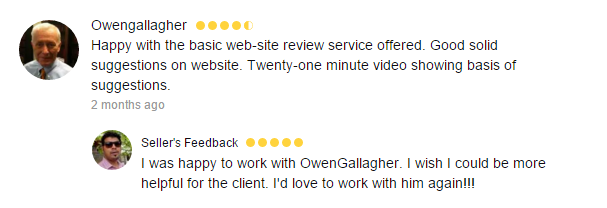
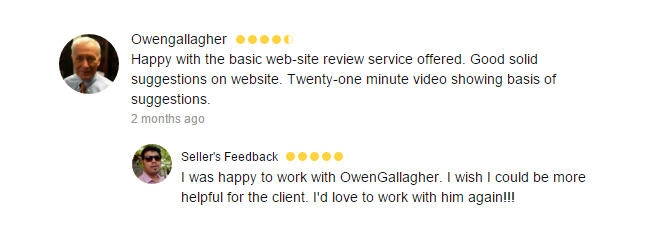
made images eq size

Changed region(s): [[0.0297, 0.0865, 0.86, 0.5481], [0.1483, 0.5769, 0.9193, 0.9231]]

diff --git a/index.html b/index.html
@@ -119,28 +119,41 @@
   <div class="large-6 columns"><p></p>
     <h2 class="text-center">Customer Reviews</h2>
     <ul class="example-orbit" data-orbit>
-        <img src="images/reviews/abhansaliNsaquita.png" alt="abhansaliNsaquita.png id="reviews">
-        <img src="images/reviews/AzdanGuil.png" alt="AzdanGuil.png id="reviews">
-        <img src="images/reviews/bestmediabox.png" alt="bestmediabox.png id="reviews">
-        <img src="images/reviews/CourseyNHook.png" alt="CourseyNHook.png id="reviews">
-        <img src="images/reviews/FabioNlevin.png" alt="FabioNlevin.png id="reviews">
-        <img src="images/reviews/forecasterNSaund.png" alt="forecasterNSaund.png id="reviews">
-        <img src="images/reviews/FrankNFinesalesman.png" alt="FrankNFinesalesman.png id="reviews">
-        <img src="images/reviews/gallagher.png" alt="gallagher.png id="reviews">
-        <img src="images/reviews/gunNJudyNRags.png" alt="gunNJudyNRags.png id="reviews">
-        <img src="images/reviews/hook1.png" alt="hook1.png id="reviews">
-        <img src="images/reviews/hook2.png" alt="hook2.png id="reviews">
-        <img src="images/reviews/hook3.png" alt="hook3.png id="reviews">
-        <img src="images/reviews/jasonNDoram.png" alt="jasonNDoram.png id="reviews">
-        <img src="images/reviews/Jazz.png" alt="Jazz.png id="reviews">
-        <img src="images/reviews/Leah.png" alt="Leah.png id="reviews">
-        <img src="images/reviews/loecav.png" alt="loecav.png id="reviews">
-        <img src="images/reviews/mikeNlawbusinessman.png" alt="mikeNlawbusinessman.png id="reviews">
-        <img src="images/reviews/paleos.png" alt="paleos.png id="reviews">
-        <img src="images/reviews/reyesNJvids.png" alt="reyesNJvids.png id="reviews">
-        <img src="images/reviews/Sugar.png" alt="Sugar.png id="reviews">
-        <img src="images/reviews/sunita.png" alt="sunita.png id="reviews">
-        <img src="images/reviews/webpropertiesNvova.png" alt="webpropertiesNvova.png id="reviews">
+        <img src="images/reviews/abhansali.png" alt="abhansali" width="650" height="250">
+        <img src="images/reviews/adzdacom.png" alt="adzdacom" width="650" height="250">
+        <img src="images/reviews/aforecaster.png" alt="aforecaster" width="650" height="250">
+        <img src="images/reviews/bestmediabox.png" alt="bestmediabox" width="650" height="250">
+        <img src="images/reviews/doram.png" alt="doram" width="650" height="250">
+        <img src="images/reviews/fabioramos.png" alt="fabioramos" width="650" height="250">
+        <img src="images/reviews/fnsalesman.png" alt="fnsalesman" width="650" height="250">
+        <img src="images/reviews/frankrebel.png" alt="frankrebel" width="650" height="250">
+        <img src="images/reviews/gallagher.png" alt="gallagher" width="650" height="250">
+        <img src="images/reviews/guilhermenunes.png" alt="guilhermenunes" width="650" height="250">
+        <img src="images/reviews/gun.png" alt="gun" width="650" height="250">
+        <img src="images/reviews/hook2.png" alt="hook2" width="650" height="250">
+        <img src="images/reviews/hookway3.png" alt="hookway3" width="650" height="250">
+        <img src="images/reviews/hookway4.png" alt="hookway4" width="650" height="250">
+        <img src="images/reviews/jason.png" alt="jason" width="650" height="250">
+        <img src="images/reviews/jayrey.png" alt="jayrey" width="650" height="250">
+        <img src="images/reviews/Jazz.png" alt="Jazz" width="650" height="250">
+        <img src="images/reviews/judy.png" alt="judy" width="650" height="250">
+        <img src="images/reviews/jvid.png" alt="jvid" width="650" height="250">
+        <img src="images/reviews/lawbusi.png" alt="lawbusi" width="650" height="250">
+        <img src="images/reviews/Leah.png" alt="Leah" width="650" height="250">
+        <img src="images/reviews/leecoursey.png" alt="leecoursey" width="650" height="250">
+        <img src="images/reviews/loecav.png" alt="loecav" width="650" height="250">
+        <img src="images/reviews/mdlevin.png" alt="mdlevin" width="650" height="250">
+        <img src="images/reviews/mike.png" alt="mike" width="650" height="250">
+        <img src="images/reviews/paleos.png" alt="paleos" width="650" height="250">
+        <img src="images/reviews/rags.png" alt="rags" width="650" height="250">
+        <img src="images/reviews/saquitapace.png" alt="saquitapace" width="650" height="250">
+        <img src="images/reviews/saund.png" alt="saund" width="650" height="250">
+        <img src="images/reviews/sugar.png" alt="sugar" width="650" height="250">
+        <img src="images/reviews/sunita.png" alt="sunita" width="650" height="250">
+        <img src="images/reviews/vovs.png" alt="vovs" width="650" height="250">
+        <img src="images/reviews/webprops.png" alt="webprops" width="650" height="250">
+
+
     </ul>
   </div>
   <div class="large-2 columns">
